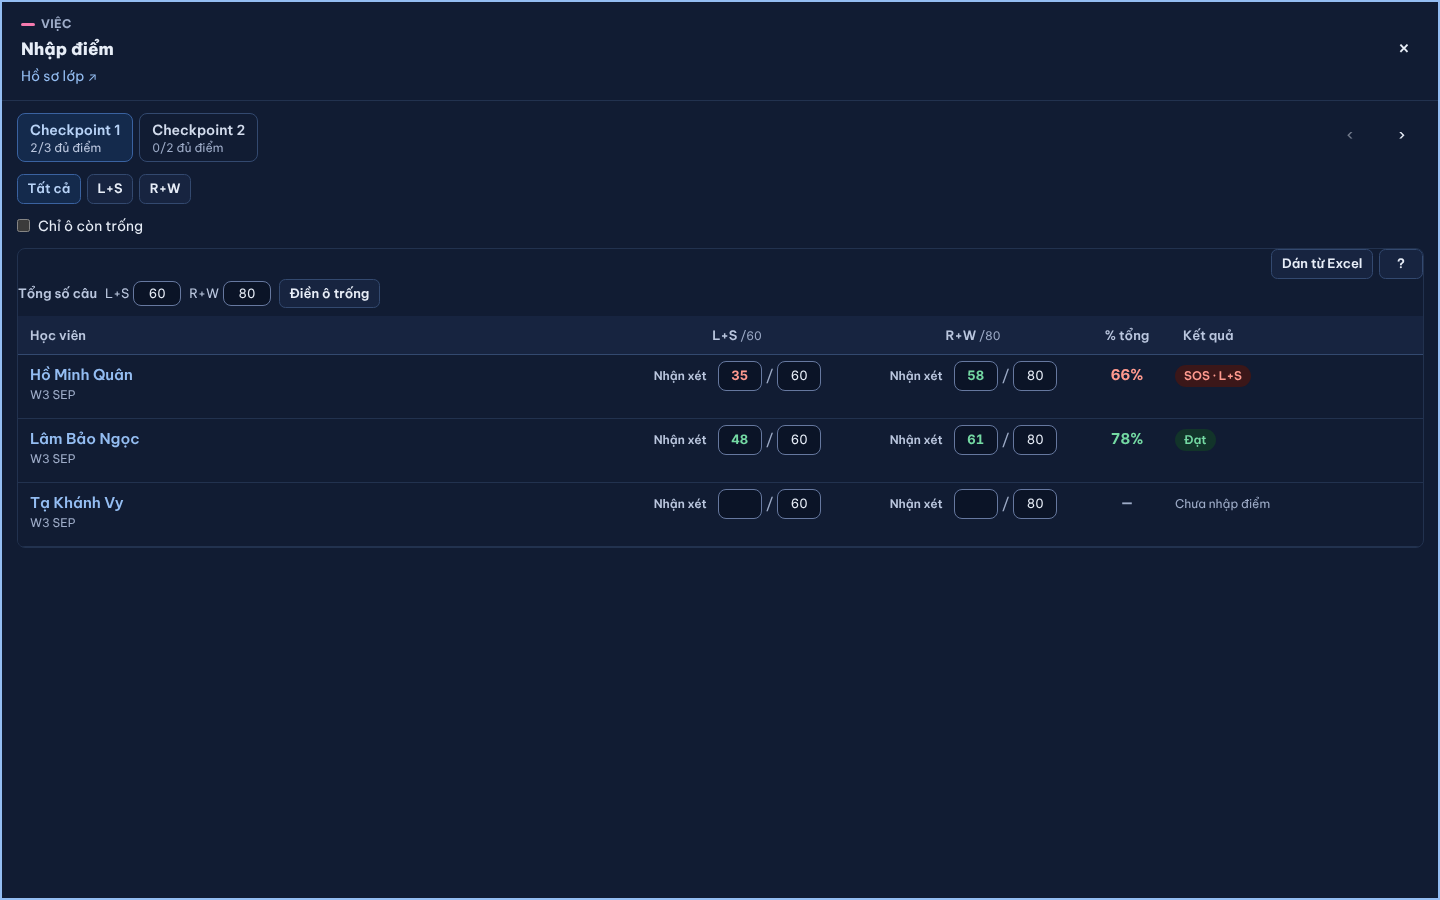
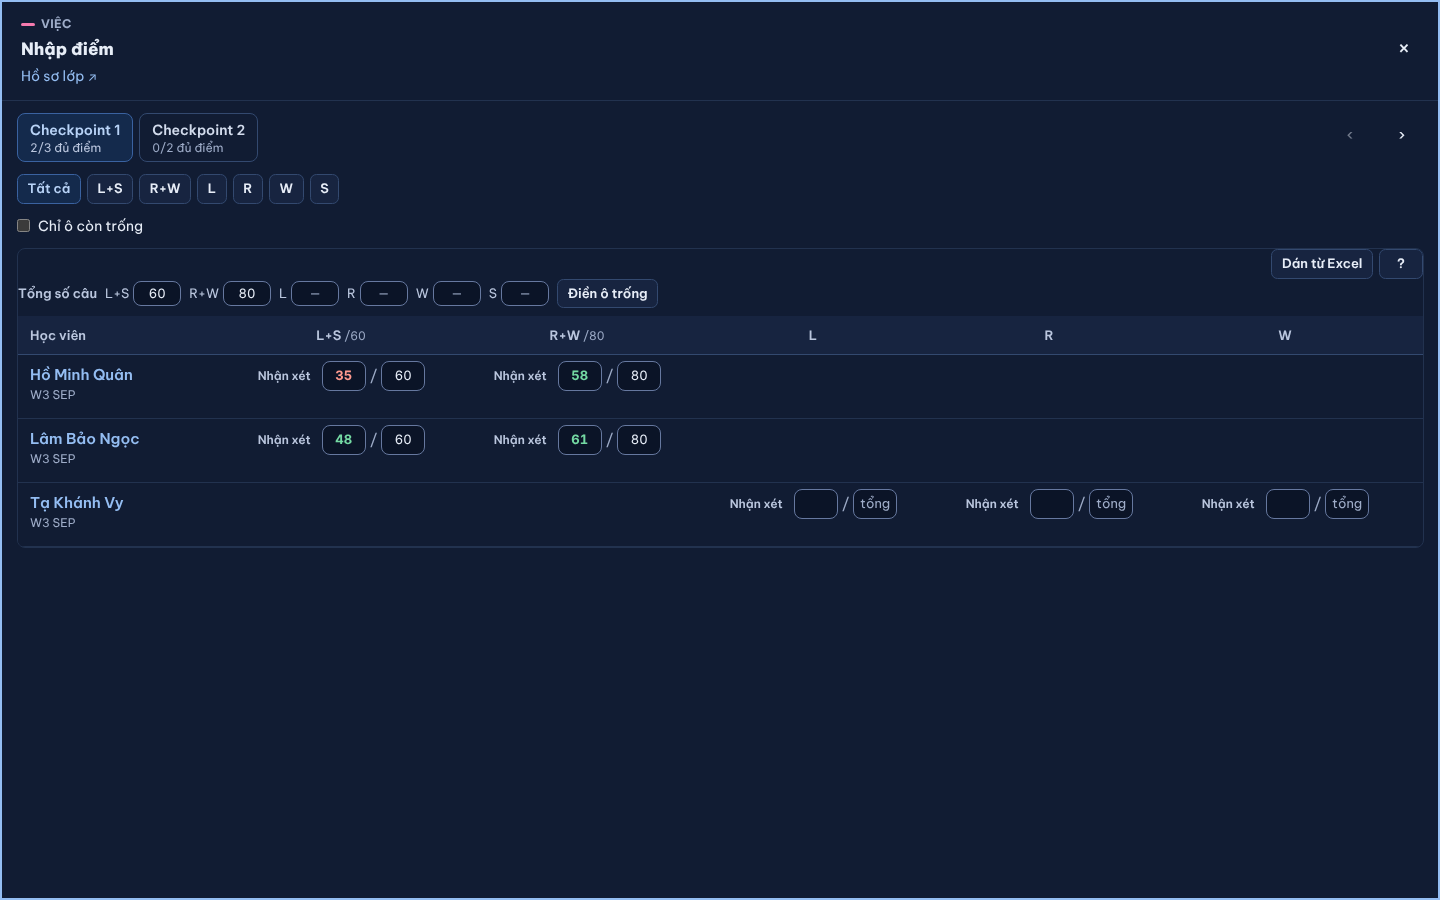
P13 KET-PET: bảng Tổng hợp hồ sơ lớp theo bộ môn của lượt (lượt cũ L+S / R+W hiện đúng điểm, %); ảnh sau migrate
Claude-Session: https://claude.ai/code/session_01NFXKYHdr3eX6QVWpFbTTGC

diff --git a/web/src/modules/classes/BangDiemLopThuong.tsx b/web/src/modules/classes/BangDiemLopThuong.tsx
@@ -75,6 +75,11 @@ export function BangDiemLopThuong({ classId, maLop, quyen, onDoi, chuongTrinh = 
   const BAI = lienTuc ? cp.map((n) => ({ kind: khoaBai('checkpoint', n), nhan: nhanBai(khoaBai('checkpoint', n)) }))
     : (moc?.length ? moc : MOC_MAC_DINH).map((kind) => ({ kind, nhan: ATTEMPT_KIND_SHORT[kind as AttemptKind] ?? kind }));
   const luotCua = (s: DongThuong, kind: string) => s.timeline.find((x) => khoaBai(x.kind, x.attemptNo) === kind) ?? null;
+  /** P13 KET-PET: cột môn của một mốc = các môn thực có của các lượt mốc đó (lượt đã ghi môn gộp cũ giữ L+S / R+W) — thứ tự: môn lớp trước. */
+  const monCua = (kind: string): string[] => {
+    const co = new Set(rows.flatMap((s) => Object.keys(luotCua(s, kind)?.ratios ?? {})));
+    return co.size ? [...mon.filter((k) => co.has(k)), ...[...co].filter((k) => !mon.includes(k))] : mon;
+  };
   /* MH7: Pre FOU không chia môn — thêm cột % tổng sau cột Tổng hợp của mỗi mốc. K2-12: nhóm Cuối khoá mọi lớp thường có "% tổng"; Checkpoint cũng có. */
   const coPhanTram = CHUONG_TRINH_KHONG_CHIA_MON.includes(chuongTrinh ?? '');
   const cotPhu = (kind: string) => (coPhanTram || kind === 'final' || kind.startsWith('checkpoint') ? ['%'] : []);
@@ -82,8 +87,8 @@ export function BangDiemLopThuong({ classId, maLop, quyen, onDoi, chuongTrinh = 
   const phanTram = (s: DongThuong, kind: string, o: ODiem | null): number | null => {
     if (kind === 'final') return s.cuoiKhoa?.tyLe ?? null;
     if (kind.startsWith('checkpoint')) {
-      const ds = mon.map((k) => luotCua(s, kind)?.ratios?.[k] ?? null);
-      return ds.every((x) => x && x.score !== null && x.total) ? ds.reduce((a, x) => a + x!.score!, 0) / ds.reduce((a, x) => a + x!.total!, 0) : null;
+      const ds = Object.values(luotCua(s, kind)?.ratios ?? {});   // P13: môn của chính lượt
+      return ds.length > 0 && ds.every((x) => x && x.score !== null && x.total) ? ds.reduce((a, x) => a + x!.score!, 0) / ds.reduce((a, x) => a + x!.total!, 0) : null;
     }
     return o && o.score !== null && o.total ? o.score / o.total : null;
   };
@@ -115,7 +120,7 @@ export function BangDiemLopThuong({ classId, maLop, quyen, onDoi, chuongTrinh = 
                 nhan: b.nhan,
                 noiDung: (
                   <span className="flex flex-wrap items-baseline gap-x-3 gap-y-0.5">
-                    {mon.map((k) => (
+                    {(lu?.ratios ? Object.keys(lu.ratios) : mon).map((k) => (   /* P13: môn của chính lượt */
                       <span key={k} className="whitespace-nowrap">
                         <abbr className="text-slate-500 no-underline" title={tenMon(chuongTrinh, k)}>{tenMonNgan(chuongTrinh, k)}</abbr>{' '}
                         <ODiemThuong o={lu?.ratios?.[k] ?? null} tuan={lu?.tuanMon?.[k] ?? null} homNay={homNay} />
@@ -140,7 +145,7 @@ export function BangDiemLopThuong({ classId, maLop, quyen, onDoi, chuongTrinh = 
       <table className="w-full min-w-[1040px] table-fixed text-sm">
         <colgroup>
           <col className="w-[19%]" />{!lienTuc && <col className="w-[6%]" />}
-          {BAI.flatMap((b) => [...mon, ...cotPhu(b.kind)].map((k) => <col key={`${b.kind}-${k}`} />))}
+          {BAI.flatMap((b) => [...monCua(b.kind), ...cotPhu(b.kind)].map((k) => <col key={`${b.kind}-${k}`} />))}
           {!lienTuc && <col className="w-[11rem]" />}{quyen.theoVai && <col className="w-[10rem]" />}<col className="w-12" />
         </colgroup>
         <thead>
@@ -148,7 +153,7 @@ export function BangDiemLopThuong({ classId, maLop, quyen, onDoi, chuongTrinh = 
             <th className="th sticky-col align-bottom" rowSpan={2}>{chon?.bat && <span className="mr-2 inline-flex align-middle"><OChonTatCa chon={chon} ids={rows.map((s) => s.id)} /></span>}{t('Học viên')}</th>
             {!lienTuc && <th className="th text-right align-bottom" rowSpan={2} title={t('Điểm Target của lộ trình em đang học. KCK = không cam kết đầu ra. Lớp thường chỉ để theo dõi.')}>Target</th>}
             {BAI.map((b) => (
-              <th key={b.kind} className="th border-b text-center" colSpan={mon.length + cotPhu(b.kind).length} style={{ borderColor: 'var(--line)' }}>{b.nhan}</th>
+              <th key={b.kind} className="th border-b text-center" colSpan={monCua(b.kind).length + cotPhu(b.kind).length} style={{ borderColor: 'var(--line)' }}>{b.nhan}</th>
             ))}
             {!lienTuc && <th className="th align-bottom" rowSpan={2} title={TIEU_DE_LO_TRINH}>{t('Lộ trình tiếp theo')}</th>}
             {quyen.theoVai && <th className="th align-bottom" rowSpan={2}>{t('Phụ huynh')}</th>}
@@ -156,7 +161,7 @@ export function BangDiemLopThuong({ classId, maLop, quyen, onDoi, chuongTrinh = 
           </tr>
           <tr>
             {BAI.flatMap((b) => [
-              ...mon.map((k) => (
+              ...monCua(b.kind).map((k) => (
                 <th key={`${b.kind}-${k}`} className="th text-center"><abbr className="no-underline" title={tenMon(chuongTrinh, k)}>{tenMonNgan(chuongTrinh, k)}</abbr></th>
               )),
               ...(cotPhu(b.kind).includes('%') ? [<th key={`${b.kind}-%`} className="th text-right" title={t('Điểm đạt / tổng điểm cả bài')}>{t('% tổng')}</th>] : []),
@@ -181,7 +186,7 @@ export function BangDiemLopThuong({ classId, maLop, quyen, onDoi, chuongTrinh = 
                 const lu = luotCua(s, b.kind);
                 const o = lu?.ratios?.[mon[0]] ?? null;
                 return [
-                  ...mon.map((k) => (
+                  ...monCua(b.kind).map((k) => (
                     <td key={`${b.kind}-${k}`} className="td text-center tabular-nums">
                       <ODiemThuong o={lu?.ratios?.[k] ?? null} tuan={lu?.tuanMon?.[k] ?? null} homNay={homNay} />
                     </td>

diff --git a/server/src/classes/classes.ts b/server/src/classes/classes.ts
@@ -499,9 +499,12 @@ export function classRoster(p: Principal, classId: number, q?: string, kemKetThu
          * Bài kiểm tra lớp thường: không có band, không có Overall, không có kỳ vọng theo
          * target. Chỉ có đạt/trượt theo tỷ lệ điểm đạt/tổng điểm, và số môn trượt ra mức SOS.
          */
-        const r = evaluateRegular(prog!.skills, scores, prog!.code, nguongDatLop(a.class_id));
+        /* P13: bộ môn theo lượt (`boMonTheoLuot`) — lượt đã ghi môn gộp cũ giữ L+S / R+W. */
+        const mon = boMonTheoLuot(prog!.skills, scores.map((x) => x.skill));
+        const myLuot = mon === prog!.skills ? myRegularSkills : editableSkills(p, classId, mon, undefined, true);
+        const r = evaluateRegular(mon, scores, prog!.code, nguongDatLop(a.class_id));
         /* Lịch và hạn của TỪNG môn — bốn môn của một bài có thể trải hai ba tuần. */
-        const regViews = regularSkillViews(a, bundle.skillRows.get(a.id), scores, today, prog!.skills);
+        const regViews = regularSkillViews(a, bundle.skillRows.get(a.id), scores, today, mon);
         return {
           id: a.id, attemptNo: a.attempt_no, cycleSeq: a.cycle_seq, route: null,
           kind: a.kind, kindLabel: ATTEMPT_KIND_SHORT[a.kind as AttemptKind] ?? a.kind,
@@ -527,19 +530,19 @@ export function classRoster(p: Principal, classId: number, q?: string, kemKetThu
           nguong: r.passThreshold,   // OV-6b1: ngưỡng đạt của lớp lượt này
           bands: null,
           caseStatus: c?.status ?? null,
-          myPending: myRegularSkills.filter((k) => {
+          myPending: myLuot.filter((k) => {
             const row = scores.find((x) => x.skill === k);
             const scored = row?.raw_score !== null && row?.raw_score !== undefined;
             const v = regViews.get(k);
             return !scored && !!v && awaitingScore(v.progress);
           }),
-          overdueSkills: myRegularSkills.filter((k) => {
+          overdueSkills: myLuot.filter((k) => {
             const row = scores.find((x) => x.skill === k);
             const scored = row?.raw_score !== null && row?.raw_score !== undefined;
             return !scored && !!regViews.get(k)?.overdue;
           }).length,
           /* Tuần thi của TỪNG môn (thứ Hai) — ô chưa có điểm ở bảng lớp thường ghi tuần này (đặc tả §3.7, 10b A). */
-          tuanMon: Object.fromEntries(prog!.skills.map((k) => [k, regViews.get(k)?.weekStart ?? null])),
+          tuanMon: Object.fromEntries(mon.map((k) => [k, regViews.get(k)?.weekStart ?? null])),
         };
       }
 
